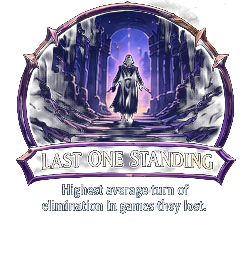
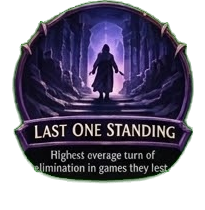
Refresh all 22 original emblems + add art for the 7 newest achievements
User regenerated the original 22-badge grid (better composition/legibility
than the first pass, notably clearer text banners) and separately
generated art for the 7 achievements that had none yet (Went Off, The
Wrench, Comeback Kid, Never Say Die, Hold Everything, Bio Break Champion,
Second-Guesser). Both source images used a solid chroma-green background
this time instead of black -- re-derived the chroma-key against the real
sampled green (~RGB 5,128,6) rather than reusing the old near-black logic,
and verified against a badge with real green content in the art itself
(The Medic's forest ring) that the key doesn't eat into it.

Grid geometry re-measured fresh per image (not reused from the old crop),
since column spacing/row heights differ between generations. The 7-new
image packs 3 large badges in one row plus the remaining 4 repeated
across two smaller rows to fill out a 6-wide grid -- picked one clean
instance of each rather than a duplicate.

relay.js: added `emblem` paths for the 7 newest achievements (previously
emoji-fallback only) and bumped EMBLEM_CACHE_BUST to 4, since this is the
third time image content has changed under the same filenames. 29 of 30
achievements now have real art -- only Analysis Paralysis (added after
this batch was requested) still uses the plain-trophy fallback.

diff --git a/cloudflare-worker/relay.js b/cloudflare-worker/relay.js
@@ -1789,7 +1789,7 @@ function sumField(rows, field) {
 // already loaded an older crop just kept serving it from cache, since the
 // filename itself never changed). Bump this any time /emblems/*.png files
 // get new content, even though their filenames stay the same.
-const EMBLEM_CACHE_BUST = "3";
+const EMBLEM_CACHE_BUST = "4";
 function emblemUrl(path) {
   return path ? `${path}?v=${EMBLEM_CACHE_BUST}` : path;
 }
@@ -2106,6 +2106,7 @@ const ACHIEVEMENTS = [
   {
     id: "most-popoffs",
     title: "Went Off",
+    emblem: "emblems/most-popoffs.png",
     description: "Most pop-off turns across the season.",
     compute(ctx) {
       const winner = topPlayer(groupByPlayer(ctx.gameResults), rows => sumField(rows, "pop_off"));
@@ -2115,6 +2116,7 @@ const ACHIEVEMENTS = [
   {
     id: "most-disruptions",
     title: "The Wrench",
+    emblem: "emblems/most-disruptions.png",
     description: "Most disruptions across the season.",
     compute(ctx) {
       const winner = topPlayer(groupByPlayer(ctx.gameResults), rows => sumField(rows, "disruptions"));
@@ -2124,6 +2126,7 @@ const ACHIEVEMENTS = [
   {
     id: "best-recovery-rate",
     title: "Comeback Kid",
+    emblem: "emblems/best-recovery-rate.png",
     description: "Best recovery rate after being disrupted.",
     compute(ctx) {
       const byPlayer = groupByPlayer(ctx.gameResults);
@@ -2140,6 +2143,7 @@ const ACHIEVEMENTS = [
   {
     id: "most-behind",
     title: "Never Say Die",
+    emblem: "emblems/most-behind.png",
     description: "Most games clearly behind across the season.",
     compute(ctx) {
       const winner = topPlayer(groupByPlayer(ctx.gameResults), rows => sumField(rows, "games_clearly_behind"));
@@ -2149,6 +2153,7 @@ const ACHIEVEMENTS = [
   {
     id: "most-pauses",
     title: "Hold Everything",
+    emblem: "emblems/most-pauses.png",
     description: "Most pauses called across the season.",
     compute(ctx) {
       const winner = topPlayer(ctx.eventStatsByPlayer, rows => sumField(rows, "pauses_called"));
@@ -2158,6 +2163,7 @@ const ACHIEVEMENTS = [
   {
     id: "longest-pause",
     title: "Bio Break Champion",
+    emblem: "emblems/longest-pause.png",
     description: "Most total time spent paused across the season.",
     compute(ctx) {
       const winner = topPlayer(ctx.eventStatsByPlayer, rows => sumField(rows, "pause_seconds"));
@@ -2169,6 +2175,7 @@ const ACHIEVEMENTS = [
   {
     id: "most-undos",
     title: "Second-Guesser",
+    emblem: "emblems/most-undos.png",
     description: "Most undos across the season.",
     compute(ctx) {
       const winner = topPlayer(ctx.eventStatsByPlayer, rows => sumField(rows, "undos"));
